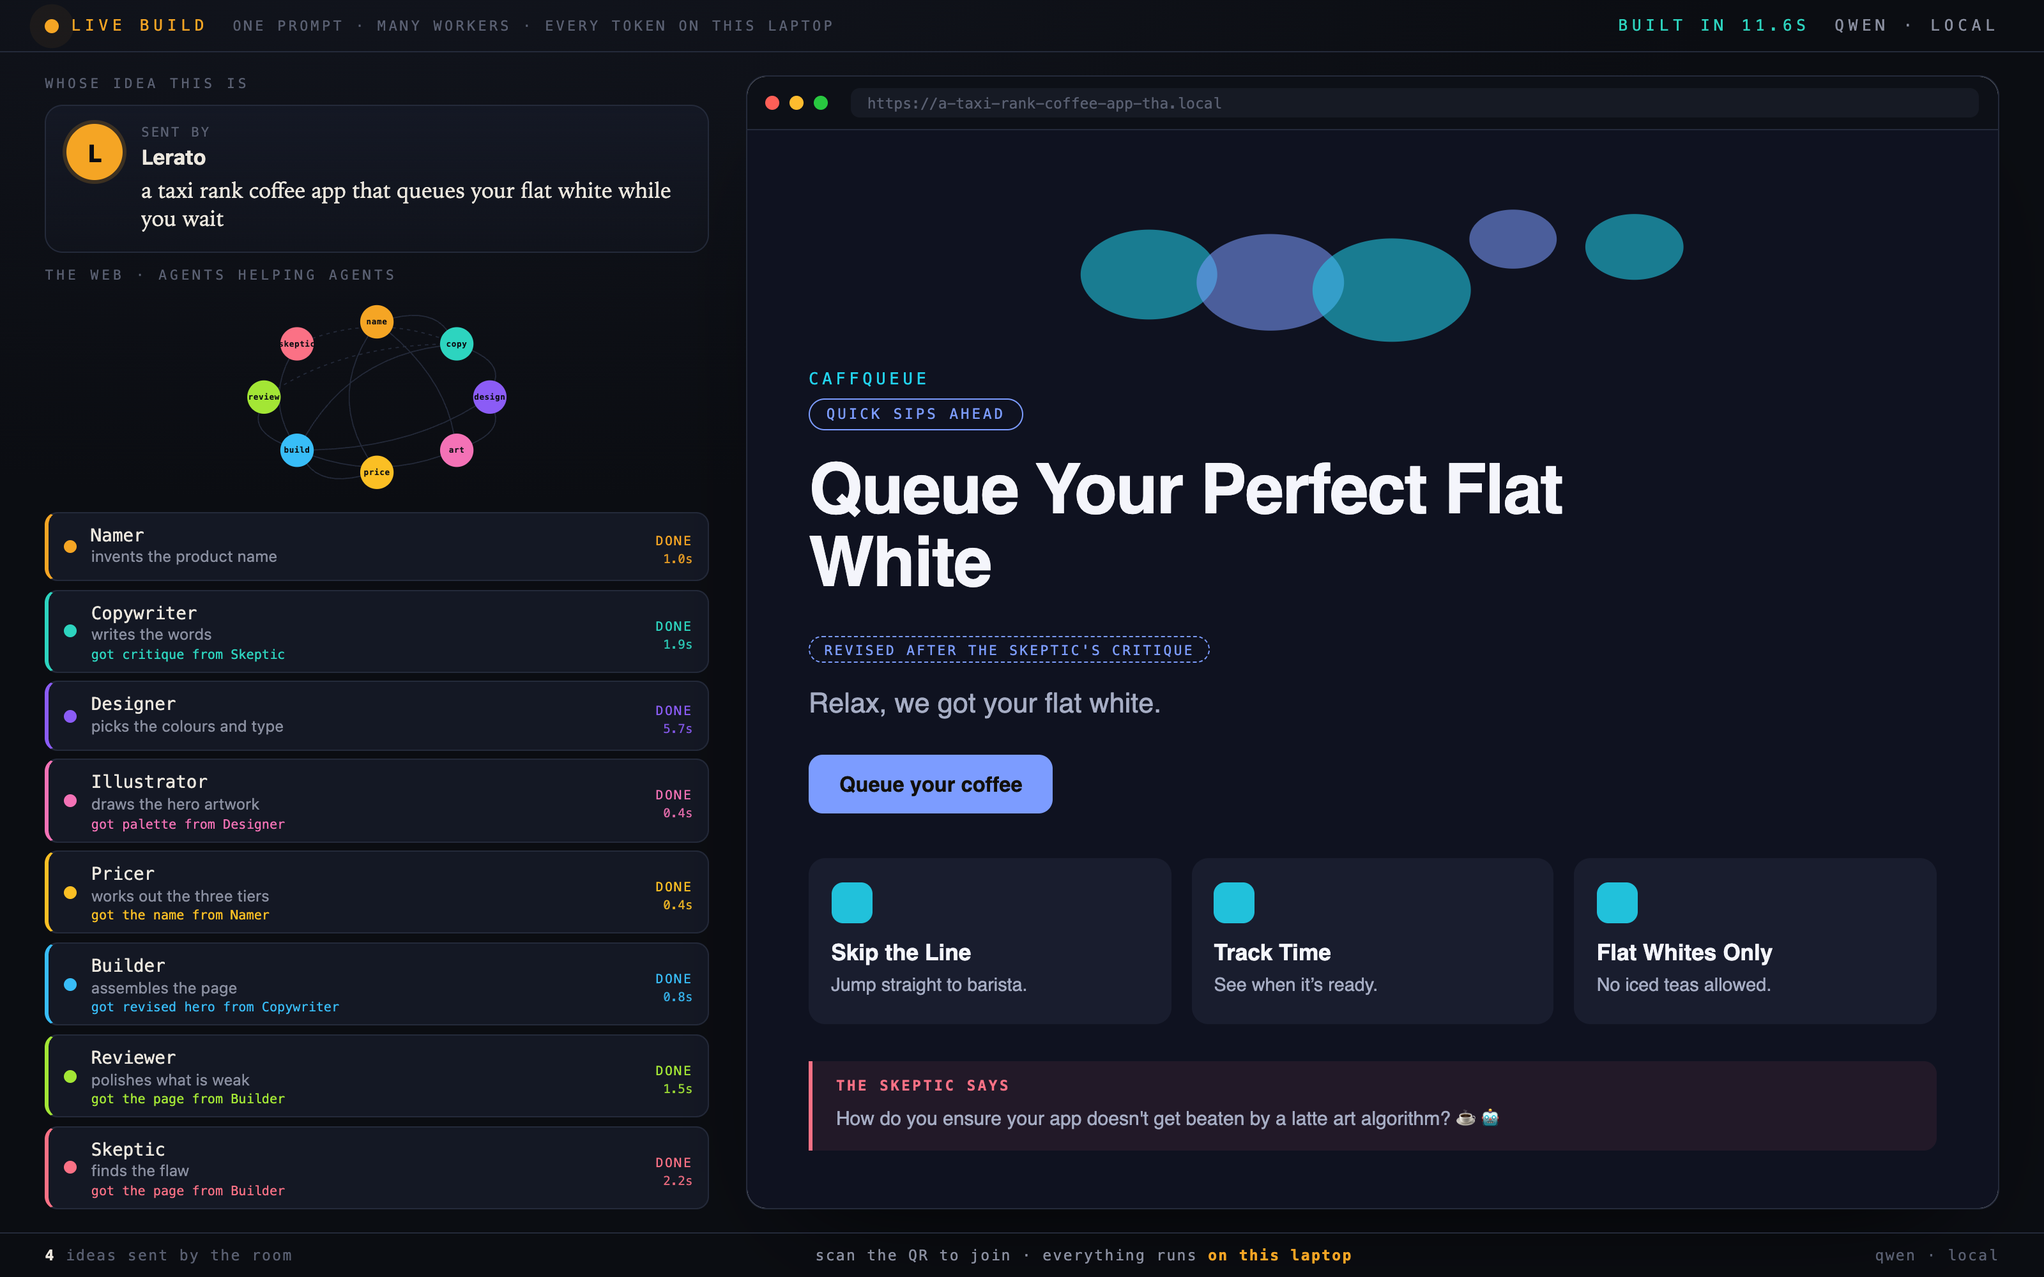
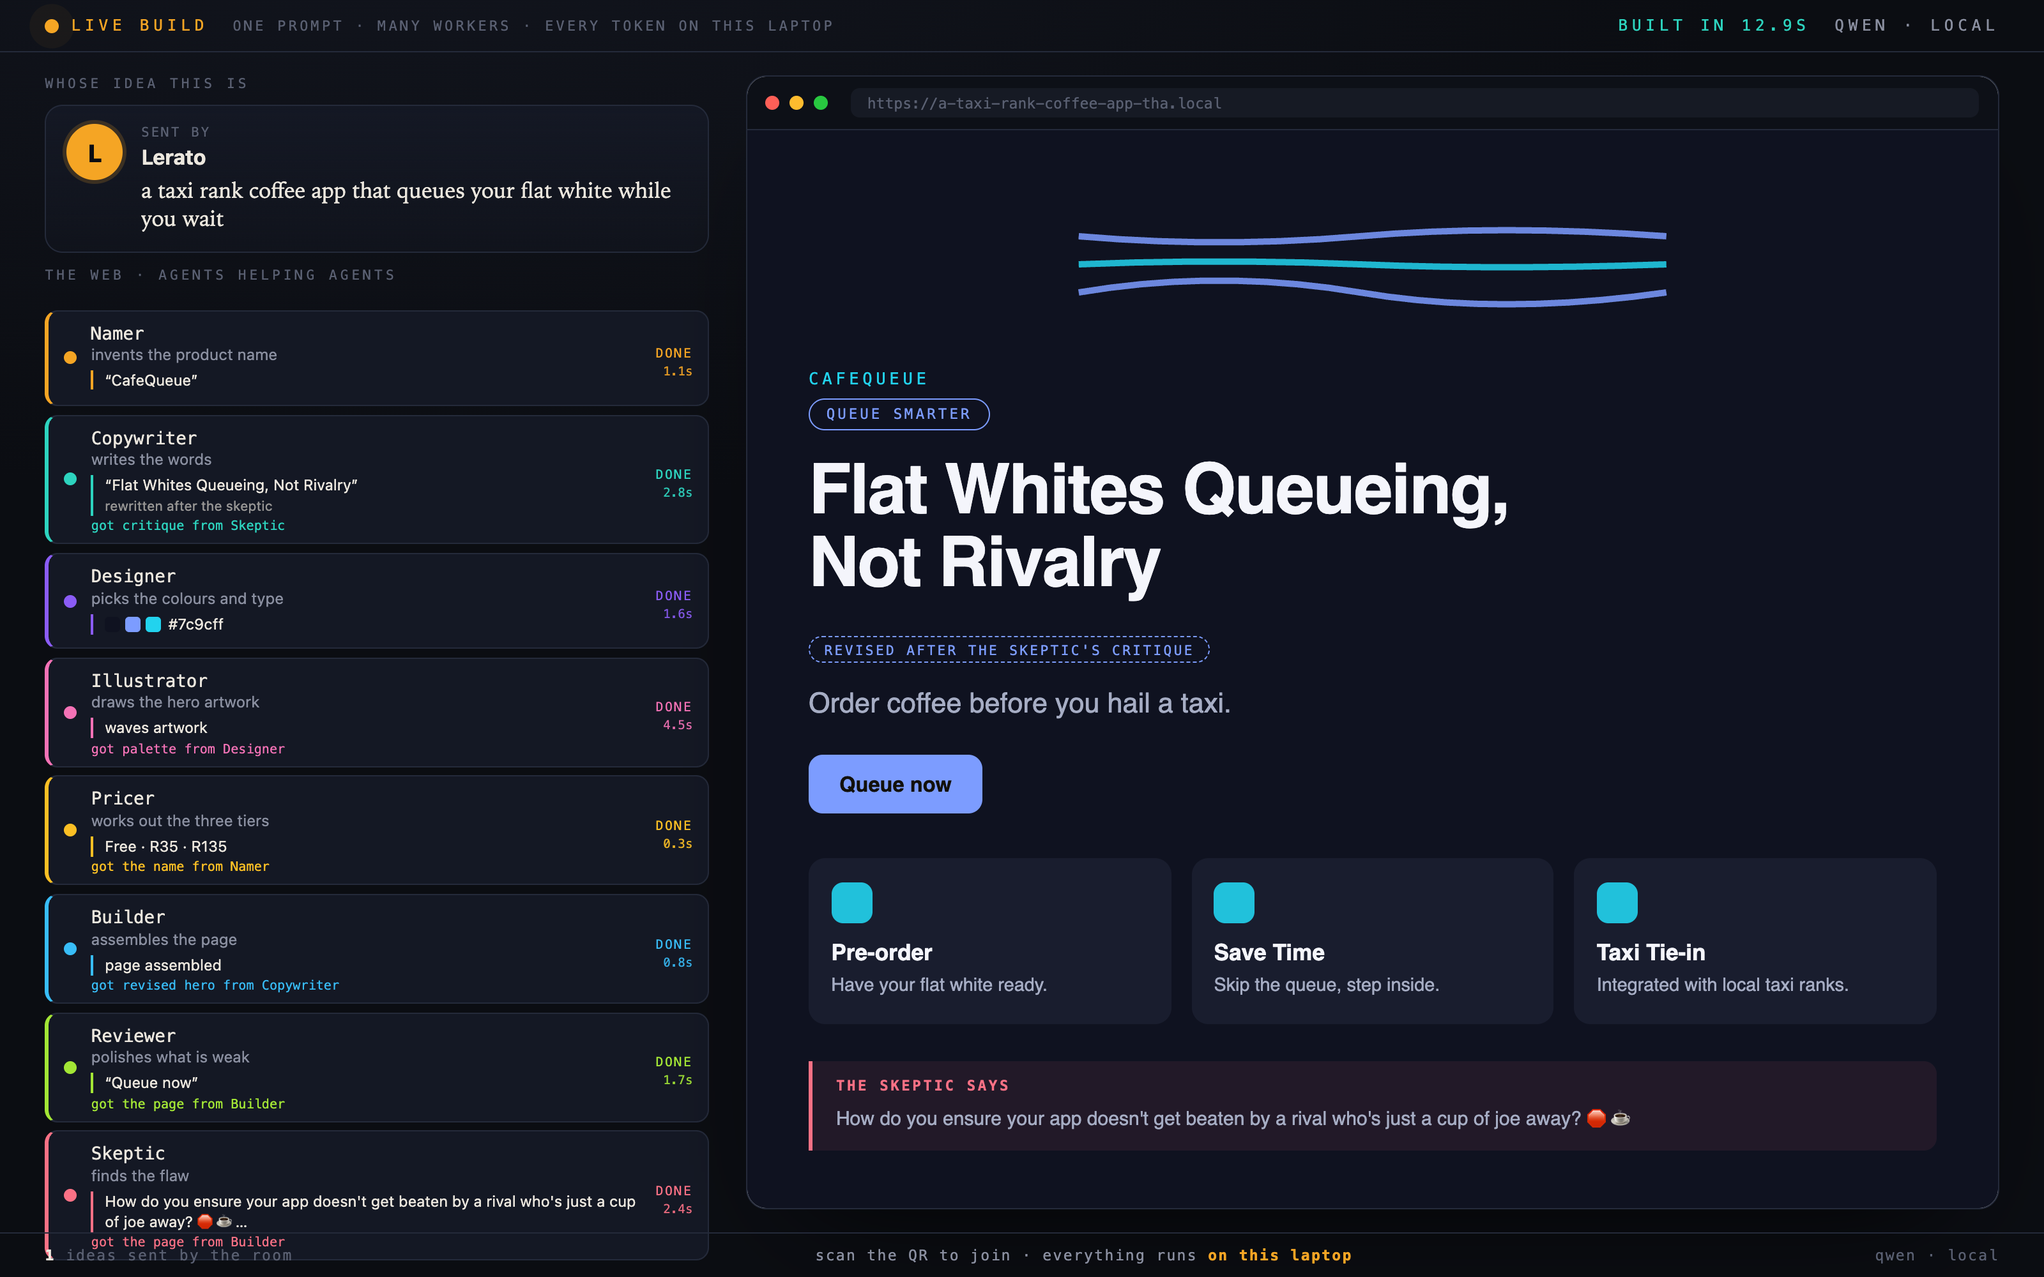
Show what each agent hands over, and fix what looking properly exposed
The stage said an agent had finished but never what it produced. Each roster
row now carries three things: a thinking line with breathing dots while it
works, the artefact it handed over the moment it is done, and who it received
work from. On a real run that reads:

  Namer        1.1s  "CafeQueue"
  Copywriter   2.8s  "Flat Whites Queueing, Not Rivalry"
                     rewritten after the skeptic
  Designer     1.6s  [swatches] #7c9cff
  Illustrator  4.5s  waves artwork
  Pricer       0.3s  Free / R35 / R135
  Builder      0.8s  page assembled
  Reviewer     1.7s  "Queue now"
  Skeptic      2.4s  How do you ensure your app doesn't get beaten by...

Then a visual pass over the generated page, which mechanical checks had just
declared clean, found three real faults:

- emoji in the copy. The local model sprinkles them and the guard had no rule
  for it. Added, and it strips rather than merely reports.
- a four line hero headline. The taste rules are blunt that this is a type
  scale error, not a copy length error, so the headline scale and measure are
  now derived from the length the copywriter actually produced.
- the hero glow and artwork widened the document by 317px. The hero now
  contains its own decoration.

And the fault that only a screenshot could have caught: every revealed section
started at opacity zero and depended on an IntersectionObserver to appear, so
with scripting unavailable the page was a hero and four empty bands. Motion is
[…]

diff --git a/live-build/src/main/resources/static/stage.html b/live-build/src/main/resources/static/stage.html
@@ -69,6 +69,24 @@
   .ag.done .st{color:var(--ac)}
   .ag .help{display:block;font-family:var(--mono);font-size:.63rem;color:var(--ac);margin-top:.15rem}
 
+  /* thinking: three dots breathing, plus what it is currently doing */
+  .ag .think{display:none;align-items:center;gap:.3rem;margin-top:.25rem}
+  .ag.working .think,.ag.assisting .think{display:flex}
+  .ag .think i{width:5px;height:5px;border-radius:50%;background:var(--ac);opacity:.35;
+               animation:blink 1.1s infinite}
+  .ag .think i:nth-child(2){animation-delay:.16s}
+  .ag .think i:nth-child(3){animation-delay:.32s}
+  @keyframes blink{0%,100%{opacity:.25;transform:translateY(0)}50%{opacity:1;transform:translateY(-2px)}}
+  .ag .think em{font-style:normal;font-family:var(--mono);font-size:.62rem;color:var(--ac);opacity:.85;margin-left:.2rem}
+
+  /* what the agent actually handed over, shown the moment it is done */
+  .ag .made{display:none;margin-top:.3rem;font-size:.74rem;line-height:1.35;color:var(--paper);
+            border-left:2px solid var(--ac);padding-left:.55rem;animation:madein .45s ease both}
+  .ag.done .made:not(:empty){display:block}
+  @keyframes madein{from{opacity:0;transform:translateX(-4px)}to{opacity:1;transform:none}}
+  .ag .made .sw{display:inline-flex;gap:.25rem;vertical-align:-2px;margin-right:.35rem}
+  .ag .made .sw b{width:12px;height:12px;border-radius:3px;display:inline-block}
+
   /* ---------- the build frame ---------- */
   .build{min-height:0;display:flex;flex-direction:column}
   .frame{flex:1;border:1px solid var(--line);border-radius:16px;overflow:hidden;display:flex;flex-direction:column;background:#fff;box-shadow:0 40px 90px -50px #000;min-height:0}
@@ -237,7 +255,10 @@
       row.className = "ag"; row.id = "ag-"+n.key;
       row.style.setProperty("--ac", COLORS[n.key]||"#8A8FA0");
       row.innerHTML = `<span class="dot"></span>
-        <span><span class="nm">${meta.name}</span><span class="job">${meta.job}</span><span class="help" id="help-${n.key}"></span></span>
+        <span><span class="nm">${meta.name}</span><span class="job">${meta.job}</span>
+          <span class="think" id="think-${n.key}"><i></i><i></i><i></i><em></em></span>
+          <span class="made" id="made-${n.key}"></span>
+          <span class="help" id="help-${n.key}"></span></span>
         <span class="stwrap"><span class="st">waiting</span><span class="ms" id="ms-${n.key}"></span></span>`;
       crewEl.appendChild(row);
     });
@@ -252,6 +273,15 @@
       row.className = "ag on " + state;
       row.querySelector(".st").textContent = STATUS[state] || state;
     }
+  }
+  function setThinking(key, note){
+    const el = document.querySelector("#think-" + key + " em");
+    if (el) el.textContent = note || "";
+  }
+  // what this agent handed over, in the shape that reads fastest from the back row
+  function setMade(key, html){
+    const el = document.getElementById("made-" + key);
+    if (el && html) el.innerHTML = html;
   }
   function setHelp(key, text){
     const el = document.getElementById("help-"+key);
@@ -362,7 +392,10 @@
   es.addEventListener("tally", e => { document.getElementById("tally").textContent = J(e).total; });
   es.addEventListener("run-start", e => { const d=J(e); resetStage(d.idea, d.name); });
   es.addEventListener("graph", e => { const d=J(e); drawGraph(d.nodes||[], d.edges||[]); });
-  es.addEventListener("agent-state", e => { const d=J(e); setAgent(d.key, d.state, d.note); });
+  es.addEventListener("agent-state", e => {
+    const d=J(e); setAgent(d.key, d.state, d.note);
+    if (d.state === "working" || d.state === "assisting") setThinking(d.key, d.note);
+  });
   es.addEventListener("flow", e => {
     const d=J(e);
     pulse(d.from, d.to, d.what);
@@ -371,12 +404,23 @@
     setHelp(d.to, "got " + (d.what||"work") + " from " + giver);
   });
   es.addEventListener("worker-done", e => {
-    const d=J(e);
-    if(d.key==="namer" && d.payload) applyName(d.payload);
-    if(d.key==="illustrator" && d.payload) applyArt(d.payload);
-    if(d.key==="copywriter" && d.payload) applyCopy(d.payload);
-    if(d.key==="designer" && d.payload) applyDesign(d.payload);
-    if(d.key==="skeptic" && d.payload) applySkeptic(d.payload.note || d.payload);
+    const d=J(e), p=d.payload;
+    if(d.key==="namer" && p) applyName(p);
+    if(d.key==="illustrator" && p) applyArt(p);
+    if(d.key==="copywriter" && p) applyCopy(p);
+    if(d.key==="designer" && p) applyDesign(p);
+    if(d.key==="skeptic" && p) applySkeptic(p.note || p);
+
+    // show the room the actual artefact, not just a tick
+    if (!p) { setMade(d.key, "page assembled"); return; }
+    if (d.key==="namer")       setMade(d.key, "&ldquo;" + esc(p.name || "") + "&rdquo;");
+    if (d.key==="copywriter")  setMade(d.key, "&ldquo;" + esc(p.headline || "") + "&rdquo;");
+    if (d.key==="designer")    setMade(d.key,
+        `<span class="sw"><b style="background:${esc(p.bg)}"></b><b style="background:${esc(p.primary)}"></b><b style="background:${esc(p.accent)}"></b></span>${esc(p.primary || "")}`);
+    if (d.key==="illustrator") setMade(d.key, esc(p.kind || "") + " artwork");
+    if (d.key==="pricer" && p.pricing) setMade(d.key, p.pricing.map(t=>esc(t.price)).join(" · "));
+    if (d.key==="reviewer")    setMade(d.key, "&ldquo;" + esc(p.value || "") + "&rdquo;");
+    if (d.key==="skeptic")     setMade(d.key, esc((p.note || "").slice(0, 90)) + "…");
   });
   // how long each agent actually took, and the whole run
   es.addEventListener("timing", e => {
@@ -384,7 +428,11 @@
     if (d.key === "total") { const t = document.getElementById("runTotal"); if (t) t.textContent = "built in " + secs; return; }
     const el = document.getElementById("ms-" + d.key); if (el) el.textContent = secs;
   });
-  es.addEventListener("revise", e => applyRevise(J(e)));
+  es.addEventListener("revise", e => {
+    const d = J(e);
+    applyRevise(d);
+    setMade("copywriter", "&ldquo;" + esc(d.value || "") + "&rdquo;<br><span style=\'opacity:.6;font-size:.66rem\'>rewritten after the " + esc(d.by || "") + "</span>");
+  });
   es.onerror = () => {/* auto-reconnects */};
 </script>
 </body>

diff --git a/live-build/mock/page.js b/live-build/mock/page.js
@@ -72,10 +72,17 @@ function artSvg(a) {
 
 // A serif palette gets a serif display; the rest get a tight, heavy sans.
 // The pairing is what stops six palettes looking like one template.
-function fonts(p) {
+function fonts(p, headline) {
+  const n = (headline || "").length;
+  // longer headline, smaller type and a wider measure, so it lands in two lines
+  const h1size = n > 46 ? "clamp(1.9rem,4vw,2.9rem)"
+               : n > 30 ? "clamp(2.2rem,5.4vw,3.8rem)"
+               :          "clamp(2.5rem,7.2vw,5.2rem)";
+  const h1measure = n > 46 ? "24ch" : n > 30 ? "19ch" : "15ch";
   const body = p.font || "-apple-system,BlinkMacSystemFont,'Segoe UI',Roboto,sans-serif";
   const serif = /georgia|times|palatino|serif/i.test(body);
   return {
+    h1size, h1measure,
     body: serif ? "-apple-system,BlinkMacSystemFont,'Segoe UI',Roboto,sans-serif" : body,
     display: serif ? body : body,
     tracking: serif ? "-.012em" : "-.035em",
@@ -87,7 +94,7 @@ function renderPage(item) {
   const R = item.result || {}, c = R.copy || {}, p = R.palette || {};
   const name = (R.product && R.product.name) || "This";
   const who = (item.name || "").trim();
-  const tiers = R.pricing || [], faq = R.faq || [], f = fonts(p);
+  const tiers = R.pricing || [], faq = R.faq || [], f = fonts(p, c.headline);
   const secs = item.ms ? (item.ms / 1000).toFixed(1) + "s" : "";
 
   // the crew's own account of what it made, in their words
@@ -147,7 +154,8 @@ function renderPage(item) {
   .btn:hover{transform:translateY(-1px);filter:brightness(1.07)}
 
   /* ---------- hero ---------- */
-  .hero{position:relative;padding:clamp(3.2rem,10vh,7rem) 0 clamp(2.6rem,7vh,5rem)}
+  /* the glow and the artwork are decoration: they must not widen the page */
+  .hero{position:relative;overflow:hidden;padding:clamp(3.2rem,10vh,7rem) 0 clamp(2.6rem,7vh,5rem)}
   .field{position:absolute;inset:-12% -22% auto auto;width:min(76vw,900px);height:min(72vh,640px);
          opacity:.5;filter:blur(.4px);z-index:0;pointer-events:none;
          mask-image:radial-gradient(70% 70% at 62% 42%,#000 30%,transparent 78%);
@@ -160,8 +168,10 @@ function renderPage(item) {
            font-size:.66rem;letter-spacing:.22em;text-transform:uppercase;color:var(--primary);
            border:1px solid color-mix(in srgb,var(--primary) 45%,transparent);
            border-radius:999px;padding:.34rem .8rem;margin-bottom:1.5rem}
+  /* a four line hero headline is a type-scale error, not a copy error, so the
+     scale is set from the length the copywriter actually produced */
   h1{font-family:var(--display);font-weight:${f.weight};letter-spacing:${f.tracking};
-     font-size:clamp(2.5rem,7.2vw,5.2rem);line-height:.97;max-width:15ch;text-wrap:balance}
+     font-size:${f.h1size};line-height:1.02;max-width:${f.h1measure};text-wrap:balance}
   .lede{font-size:clamp(1.06rem,1.7vw,1.36rem);color:var(--muted);margin-top:1.35rem;
         max-width:44ch;text-wrap:pretty}
   .actions{display:flex;align-items:center;gap:1.1rem;flex-wrap:wrap;margin-top:2.1rem}
@@ -265,8 +275,9 @@ function renderPage(item) {
   footer b{color:var(--ink);font-weight:600}
 
   /* motion, kept quiet and switched off on request */
-  .rise{opacity:0;transform:translateY(16px);transition:opacity .6s ease,transform .6s cubic-bezier(.2,.7,.2,1)}
-  .rise.in{opacity:1;transform:none}
+  /* motion is an enhancement: without script, everything is simply visible */
+  .js .rise{opacity:0;transform:translateY(16px);transition:opacity .6s ease,transform .6s cubic-bezier(.2,.7,.2,1)}
+  .js .rise.in{opacity:1;transform:none}
   @media(prefers-reduced-motion:reduce){
     *{animation:none!important;transition:none!important}
     .rise{opacity:1;transform:none}
@@ -370,6 +381,9 @@ function renderPage(item) {
   addEventListener("scroll", () => nav.classList.toggle("stuck", scrollY > 12), { passive: true });
 
   // one quiet reveal per element, then the observer lets go
+  // only now is it safe to hide things until they scroll into view
+  document.documentElement.classList.add("js");
+
   const io = new IntersectionObserver((es, o) => es.forEach(e => {
     if (e.isIntersecting) { e.target.classList.add("in"); o.unobserve(e.target); }
   }), { rootMargin: "0px 0px -8% 0px" });
@@ -377,6 +391,9 @@ function renderPage(item) {
     el.style.transitionDelay = (i % 3) * 70 + "ms";
     io.observe(el);
   });
+
+  // safety net: if anything goes wrong with the observer, show the page anyway
+  setTimeout(() => document.querySelectorAll(".rise:not(.in)").forEach(el => el.classList.add("in")), 2500);
 
   document.getElementById("f").addEventListener("submit", e => {
     e.preventDefault();

diff --git a/live-build/mock/taste.js b/live-build/mock/taste.js
@@ -82,6 +82,15 @@ const RULES = [
     },
   },
   {
+    id: "emoji",
+    why: "a model sprinkles emoji into copy; on a product page it reads as unserious",
+    check(h, text) {
+      const n = (text.match(/[\u{1F300}-\u{1FAFF}\u{2600}-\u{27BF}\u{FE0F}]/gu) || []).length;
+      return n ? { count: n, detail: `${n} in visible copy` } : null;
+    },
+    fix: h => h.replace(/[\u{1F300}-\u{1FAFF}\u{2600}-\u{27BF}\u{FE0F}]/gu, "").replace(/[ \t]{2,}/g, " ").replace(/\s+([.,!?])/g, "$1"),
+  },
+  {
     id: "filler-verbs",
     why: "elevate, seamless, unleash and revolutionise are the words models reach for when they have nothing to say",
     check(h, text) {

diff --git a/live-build/src/main/java/com/bbd/live/PageWriter.java b/live-build/src/main/java/com/bbd/live/PageWriter.java
@@ -137,6 +137,12 @@ public final class PageWriter {
         String display = bodyFont;
         if (serif) bodyFont = "-apple-system,BlinkMacSystemFont,'Segoe UI',Roboto,sans-serif";
         String tracking = serif ? "-.012em" : "-.035em";
+        // longer headline, smaller type and a wider measure, so it lands in two lines
+        int hl = c.headline() == null ? 0 : c.headline().length();
+        String h1size = hl > 46 ? "clamp(1.9rem,4vw,2.9rem)"
+                      : hl > 30 ? "clamp(2.2rem,5.4vw,3.8rem)"
+                      :           "clamp(2.5rem,7.2vw,5.2rem)";
+        String h1measure = hl > 46 ? "24ch" : hl > 30 ? "19ch" : "15ch";
         String weight = serif ? "600" : "800";
 
         String feats = c.features() == null ? "" : c.features().stream().map(x ->
@@ -187,6 +193,8 @@ public final class PageWriter {
                 .replace("__BODYFONT__", bodyFont)
                 .replace("__DISPLAY__", display)
                 .replace("__TRACKING__", tracking)
+                .replace("__H1SIZE__", h1size)
+                .replace("__H1MEASURE__", h1measure)
                 .replace("__WEIGHT__", weight)
                 .replace("__TITLE__", esc(name) + " &#183; " + esc(c.headline()))
                 .replace("__DESC__", esc(c.subhead()))
@@ -255,7 +263,8 @@ public final class PageWriter {
        transition:transform .18s cubic-bezier(.2,.7,.2,1),filter .18s}
   .btn:hover{transform:translateY(-1px);filter:brightness(1.07)}
 
-  .hero{position:relative;padding:clamp(3.2rem,10vh,7rem) 0 clamp(2.6rem,7vh,5rem)}
+  /* the glow and the artwork are decoration: they must not widen the page */
+  .hero{position:relative;overflow:hidden;padding:clamp(3.2rem,10vh,7rem) 0 clamp(2.6rem,7vh,5rem)}
   .field{position:absolute;inset:-12% -22% auto auto;width:min(76vw,900px);height:min(72vh,640px);
          opacity:.5;z-index:0;pointer-events:none;
          mask-image:radial-gradient(70% 70% at 62% 42%,#000 30%,transparent 78%);
@@ -268,8 +277,10 @@ public final class PageWriter {
            font-size:.66rem;letter-spacing:.22em;text-transform:uppercase;color:var(--primary);
            border:1px solid color-mix(in srgb,var(--primary) 45%,transparent);
            border-radius:999px;padding:.34rem .8rem;margin-bottom:1.5rem}
+  /* a four line hero headline is a type-scale error, not a copy error, so the
+     scale is set from the length the copywriter actually produced */
   h1{font-family:var(--display);font-weight:__WEIGHT__;letter-spacing:__TRACKING__;
-     font-size:clamp(2.5rem,7.2vw,5.2rem);line-height:.97;max-width:15ch;text-wrap:balance}
+     font-size:__H1SIZE__;line-height:1.02;max-width:__H1MEASURE__;text-wrap:balance}
   .lede{font-size:clamp(1.06rem,1.7vw,1.36rem);color:var(--muted);margin-top:1.35rem;
         max-width:44ch;text-wrap:pretty}
   .actions{display:flex;align-items:center;gap:1.1rem;flex-wrap:wrap;margin-top:2.1rem}
@@ -364,8 +375,9 @@ public final class PageWriter {
          display:flex;justify-content:space-between;gap:1rem;flex-wrap:wrap}
   footer b{color:var(--ink);font-weight:600}
 
-  .rise{opacity:0;transform:translateY(16px);transition:opacity .6s ease,transform .6s cubic-bezier(.2,.7,.2,1)}
-  .rise.in{opacity:1;transform:none}
+  /* motion is an enhancement: without script, everything is simply visible */
+  .js .rise{opacity:0;transform:translateY(16px);transition:opacity .6s ease,transform .6s cubic-bezier(.2,.7,.2,1)}
+  .js .rise.in{opacity:1;transform:none}
   @media(prefers-reduced-motion:reduce){
     *{animation:none!important;transition:none!important}
     .rise{opacity:1;transform:none}
@@ -456,6 +468,9 @@ public final class PageWriter {
   const nav = document.getElementById("nav");
   addEventListener("scroll", () => nav.classList.toggle("stuck", scrollY > 12), { passive: true });
 
+  // only now is it safe to hide things until they scroll into view
+  document.documentElement.classList.add("js");
+
   const io = new IntersectionObserver((es, o) => es.forEach(e => {
     if (e.isIntersecting) { e.target.classList.add("in"); o.unobserve(e.target); }
   }), { rootMargin: "0px 0px -8% 0px" });
@@ -463,6 +478,9 @@ public final class PageWriter {
     el.style.transitionDelay = (i % 3) * 70 + "ms";
     io.observe(el);
   });
+
+  // safety net: if anything goes wrong with the observer, show the page anyway
+  setTimeout(() => document.querySelectorAll(".rise:not(.in)").forEach(el => el.classList.add("in")), 2500);
 
   document.getElementById("f").addEventListener("submit", e => {
     e.preventDefault();

diff --git a/live-build/src/main/java/com/bbd/live/TasteGuard.java b/live-build/src/main/java/com/bbd/live/TasteGuard.java
@@ -100,6 +100,15 @@ public final class TasteGuard {
             }
         }
 
+        // 10. a local model sprinkles emoji into copy; on a product page it reads as unserious
+        var emoji = Pattern.compile("[\\x{1F300}-\\x{1FAFF}\\x{2600}-\\x{27BF}\\x{FE0F}]");
+        if (emoji.matcher(visible(h)).find()) {
+            h = emoji.matcher(h).replaceAll("").replaceAll("[ \\t]{2,}", " ").replaceAll("\\s+([.,!?])", "$1");
+            if (!emoji.matcher(visible(h)).find()) repaired++;
+            else found.add(new Violation("emoji", "emoji in visible copy",
+                    "emoji in product copy reads as unserious"));
+        }
+
         // 9. the words a model reaches for when it has nothing to say
         var filler = Pattern.compile("(?i)\\b(elevate|seamless|unleash|revolutionis|revolutioniz|next[- ]gen|supercharge)\\w*")
                 .matcher(visible(h));
